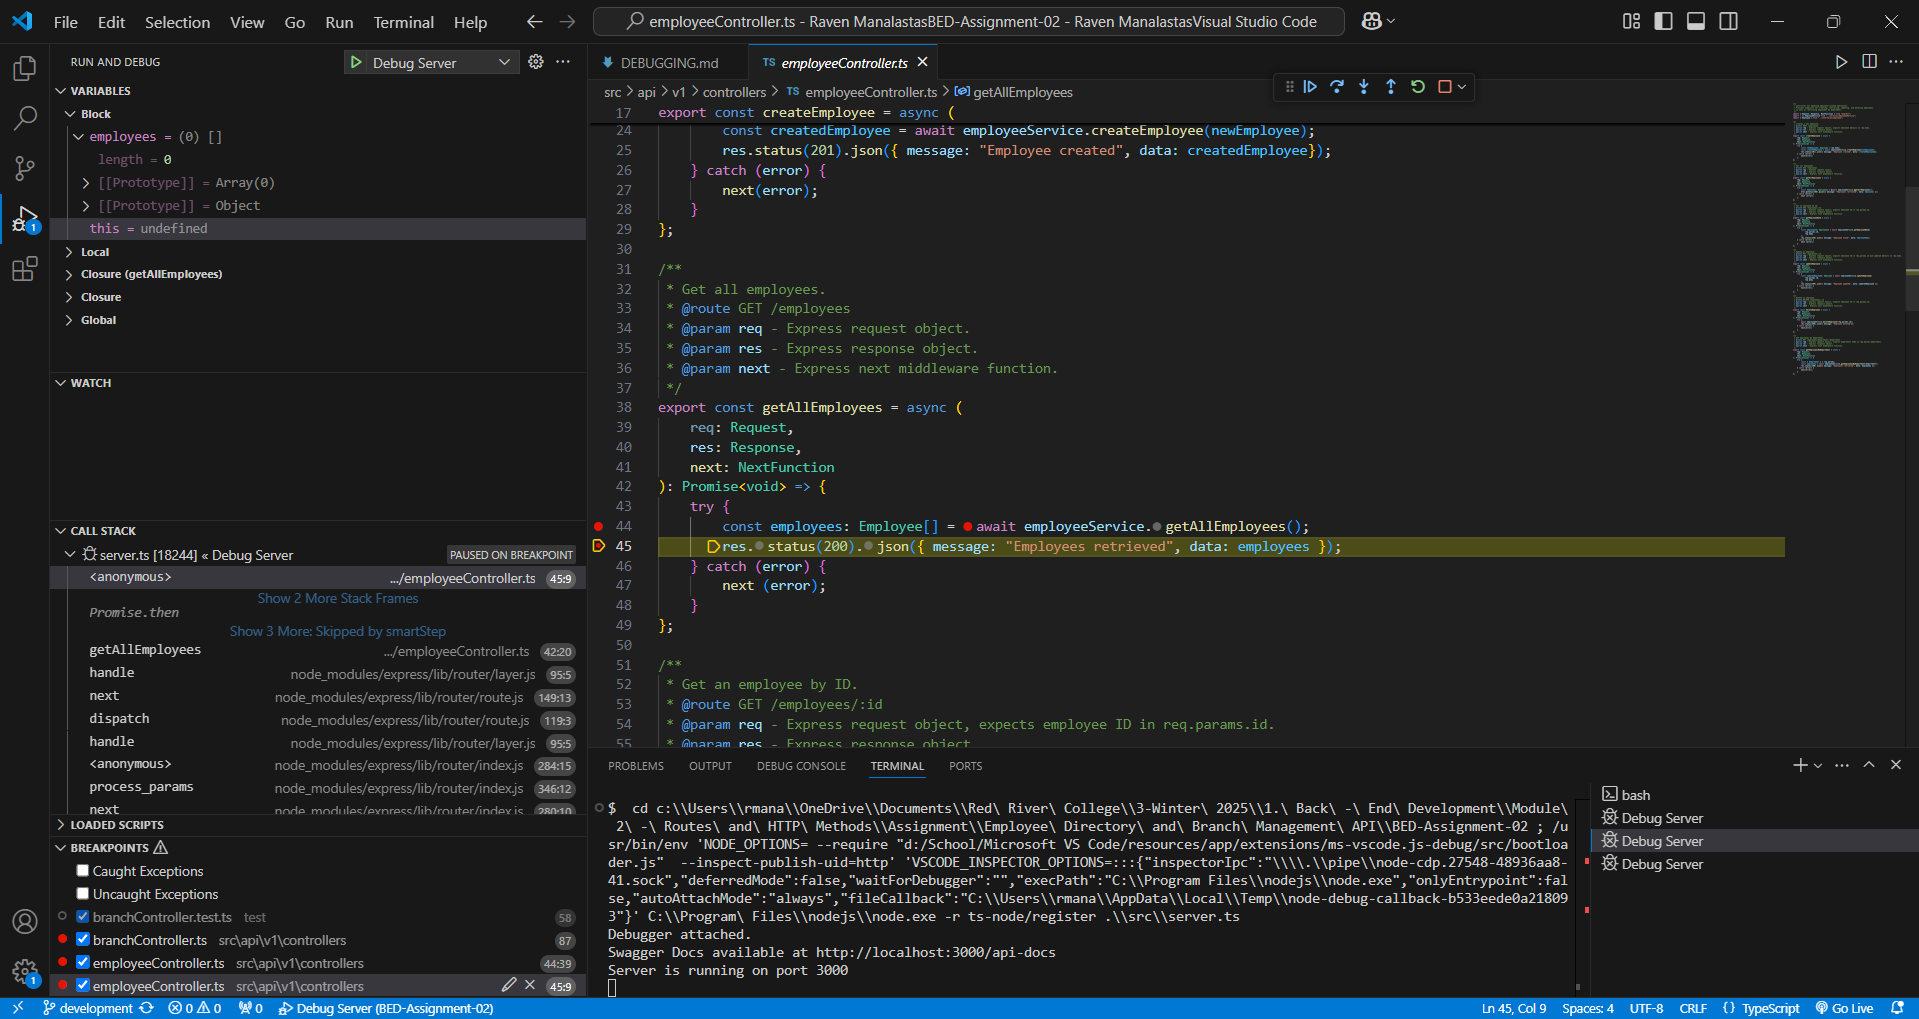
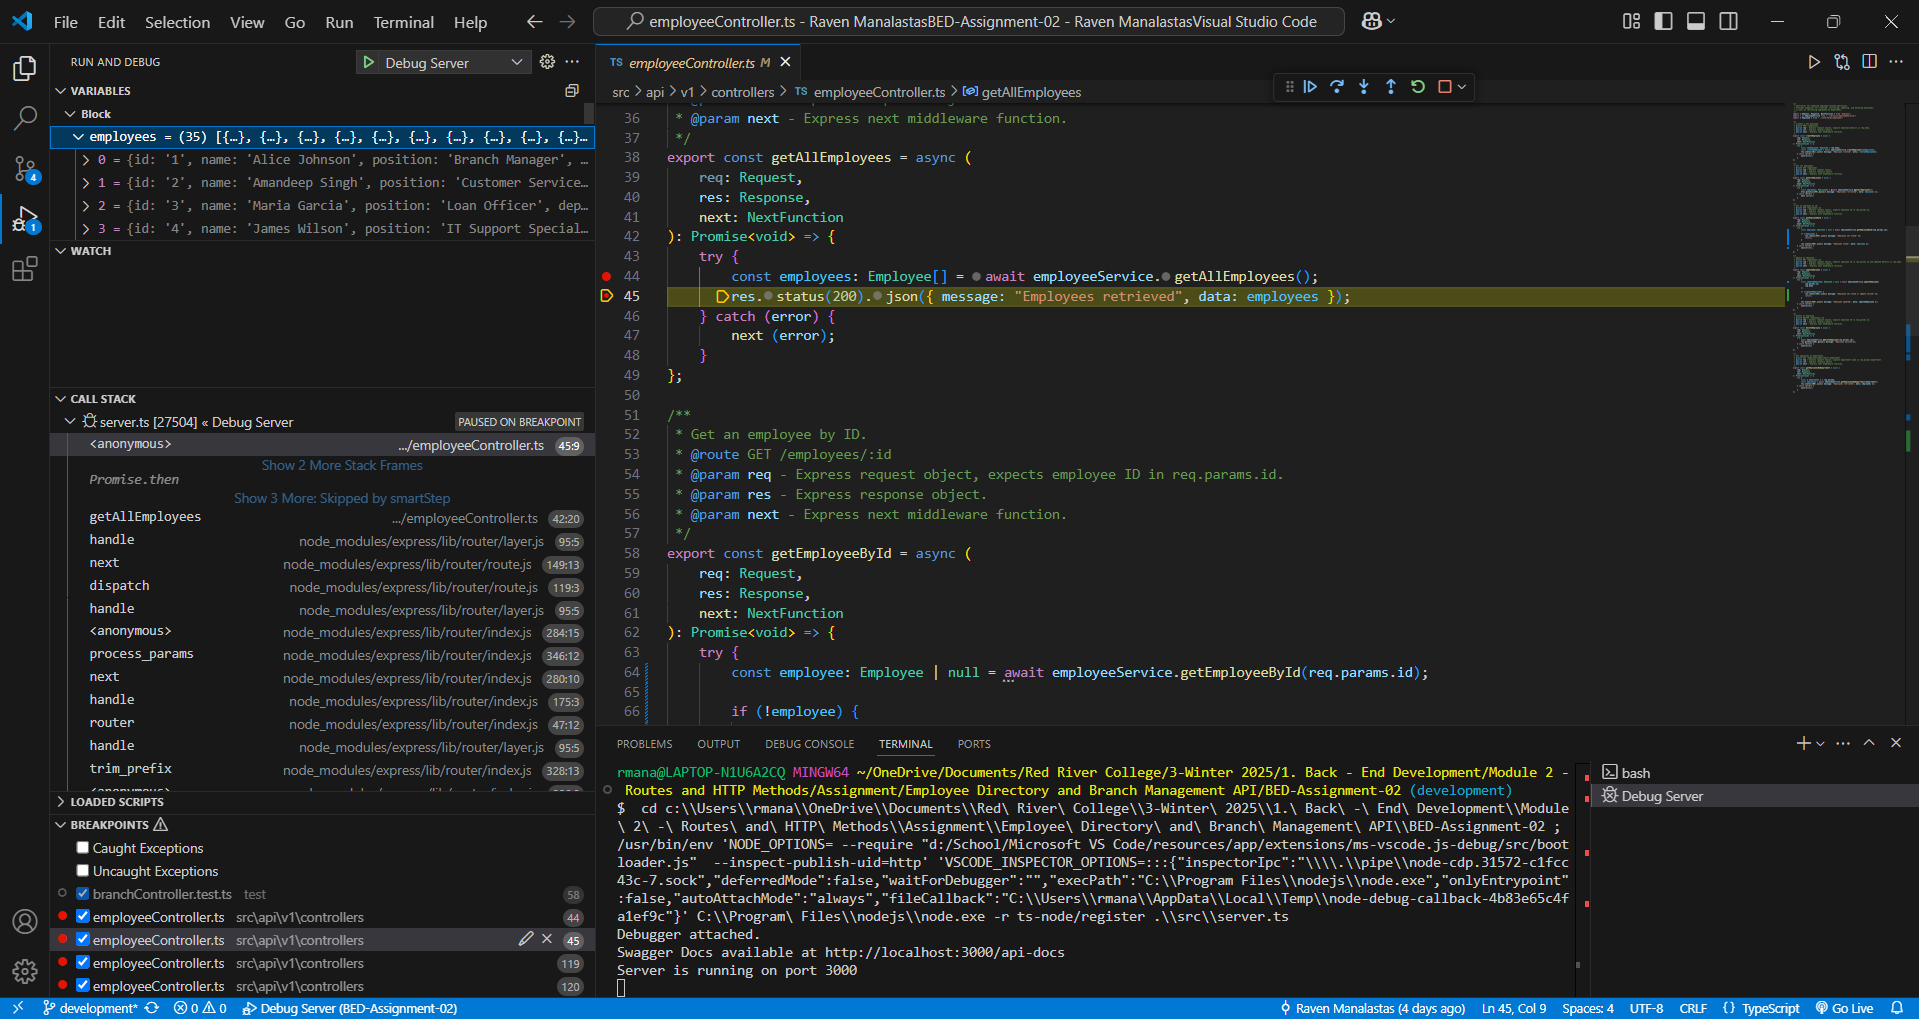
feat: updated bit of the employee and branch controller and service to get the sample data.

diff --git a/src/api/v1/services/employeeService.ts b/src/api/v1/services/employeeService.ts
@@ -8,8 +8,8 @@ import { sampleEmployees } from "../sample data/employeeData";
 import { Branch } from "../interfaces/branch";
 import { sampleBranches } from "../sample data/branchData";
 
-const branches: Branch[] = [];
-const employees: Employee[] = [];
+const branches: Branch[] = [...sampleBranches];
+const employees: Employee[] = [...sampleEmployees];
 
 /**
  * Retrieves all employees.
@@ -22,28 +22,19 @@ export const getAllEmployees = async (): Promise<Employee[]> => {
 /**
  * Retrieves an employee by their ID.
  * @param {string} id - The ID of the employee.
- * @param {any} body - Additional request data (if applicable).
- * @returns {Employee[]} An array containing the found employee or an empty array if not found.
+ * @returns {Employee | null} The found employee or null if not found.
  */
-export const getEmployeeById =  (id: string, body: any): Employee[] => {
-    const foundEmployee = employees.find(employee => employee.id === id);
-    return foundEmployee ? [foundEmployee] : [];
+export const getEmployeeById = (id: string): Employee | null => {
+    return employees.find(employee => employee.id === id) || null;
 };
 
 /**
  * Creates a new employee and adds them to the employees list.
- * @param {Object} employee - The employee details (name, position, department, email, phone, branchId).
+ * @param {Omit<Employee, 'id'>} employee - The employee details without an ID.
  * @returns {Promise<Employee>} The newly created employee.
  */
-export const createEmployee = async (employee: {
-    name: string;
-    position: string;
-    department: string;
-    email: string;
-    phone: string;
-    branchId: string;
-}): Promise<Employee> => {
-    const newEmployee: Employee =  { id: Date.now().toString(), ...employee};
+export const createEmployee = async (employee: Omit<Employee, 'id'>): Promise<Employee> => {
+    const newEmployee: Employee = { id: Date.now().toString(), ...employee };
     employees.push(newEmployee);
     return newEmployee;
 };
@@ -51,41 +42,29 @@ export const createEmployee = async (employee: {
 /**
  * Updates an employee by their ID.
  * @param {string} id - The ID of the employee.
- * @param {Object} updatedEmployee - The updated employee details (name, position, department, email, phone, branchId).
- * @returns {Promise<Employee>} The updated employee.
- * @throws {Error} If the employee with the given ID is not found.
+ * @param {Partial<Employee>} updatedEmployee - The updated employee details.
+ * @returns {Promise<Employee | null>} The updated employee or null if not found.
  */
 export const updateEmployee = async (
     id: string,
-    updatedEmployee: {
-        name: string; 
-        position: string; 
-        department: string;
-        email: string;
-        phone: string;
-        branchId: string;
-    }
-): Promise<Employee> => {
-    const index: number = employees.findIndex(employee => employee.id === id);
-    if (index === -1) {
-        throw new Error(`Employee with ID ${id} not found`);
-    }
-    employees[index] = { id, ...updatedEmployee };
-    return employees[index]; 
+    updatedEmployee: Partial<Employee>
+): Promise<Employee | null> => {
+    const index = employees.findIndex(employee => employee.id === id);
+    if (index === -1) return null;
+    employees[index] = { ...employees[index], ...updatedEmployee };
+    return employees[index];
 };
 
 /**
  * Deletes an employee by their ID.
  * @param {string} id - The ID of the employee.
- * @returns {Promise<void>} Resolves when the employee is deleted.
- * @throws {Error} If the employee with the given ID is not found.
+ * @returns {Promise<boolean>} True if deleted, false if not found.
  */
-export const deleteEmployee = async (id: string): Promise<void> => {
-    const index: number = employees.findIndex(employee => employee.id === id);
-    if (index === -1) {
-        throw new Error(`Employee with ID ${id} not found`);
-    }
+export const deleteEmployee = async (id: string): Promise<boolean> => {
+    const index = employees.findIndex(employee => employee.id === id);
+    if (index === -1) return false;
     employees.splice(index, 1);
+    return true;
 };
 
 /**

diff --git a/src/api/v1/services/branchService.ts b/src/api/v1/services/branchService.ts
@@ -8,20 +8,16 @@ import { sampleBranches } from "../sample data/branchData";
 import { Employee } from "../interfaces/employee";
 import { sampleEmployees } from "../sample data/employeeData";
 
-const branches: Branch[] = [];
-const employees: Employee[] = [];
+const branches: Branch[] = [...sampleBranches];
+const employees: Employee[] = [...sampleEmployees];
 
 /**
  * Creates a new branch and adds it to the branches list.
- * @param {Object} branch - The branch details (name, address, phone).
+ * @param {Partial<Branch>} branch - The branch details (name, address, phone).
  * @returns {Promise<Branch>} The newly created branch.
  */
-export const createBranch = async (branch: {
-    name: string;
-    address: string;
-    phone: string;
-}): Promise<Branch> => {
-    const newBranch: Branch = { id: Date.now().toString(), ...branch };
+export const createBranch = async (branch: Partial<Branch>): Promise<Branch> => {
+    const newBranch: Branch = { id: Date.now().toString(), ...branch } as Branch;
     branches.push(newBranch);
     return newBranch;
 };
@@ -37,45 +33,35 @@ export const getAllBranches = async (): Promise<Branch[]> => {
 /**
  * Retrieves a branch by its ID.
  * @param {string} id - The ID of the branch.
- * @param {any} body - Additional request data (if applicable).
- * @returns {Branch[]} An array containing the found branch or an empty array if not found.
+ * @returns {Promise<Branch | null>} The found branch or null if not found.
  */
-export const getBranchById = (id: string, body: any): Branch[] => {
-    const foundBranch = branches.find(branch => branch.id === id);
-    return foundBranch ? [foundBranch] : [];
+export const getBranchById = async (id: string): Promise<Branch | null> => {
+    return branches.find(branch => branch.id === id) || null;
 };
 
 /**
  * Updates a branch by its ID.
  * @param {string} id - The ID of the branch.
- * @param {Object} updatedBranch - The updated branch details (name, address, phone).
- * @returns {Promise<Branch>} The updated branch.
- * @throws {Error} If the branch with the given ID is not found.
+ * @param {Partial<Branch>} updatedBranch - The updated branch details.
+ * @returns {Promise<Branch | null>} The updated branch or null if not found.
  */
-export const updateBranch = async (
-    id: string,
-    updatedBranch: { name: string; address: string; phone: string }
-): Promise<Branch> => {
+export const updateBranch = async (id: string, updatedBranch: Partial<Branch>): Promise<Branch | null> => {
     const index: number = branches.findIndex(branch => branch.id === id);
-    if (index === -1) {
-        throw new Error(`Branch with ID ${id} not found`);
-    }
-    branches[index] = { id, ...updatedBranch };
+    if (index === -1) return null;
+    branches[index] = { ...branches[index], ...updatedBranch };
     return branches[index];
 };
 
 /**
  * Deletes a branch by its ID.
  * @param {string} id - The ID of the branch.
- * @returns {Promise<void>} Resolves when the branch is deleted.
- * @throws {Error} If the branch with the given ID is not found.
+ * @returns {Promise<boolean>} True if deletion was successful, false otherwise.
  */
-export const deleteBranch = async (id: string): Promise<void> => {
+export const deleteBranch = async (id: string): Promise<boolean> => {
     const index: number = branches.findIndex(branch => branch.id === id);
-    if (index === -1) {
-        throw new Error(`Branch with ID ${id} not found`);
-    }
+    if (index === -1) return false;
     branches.splice(index, 1);
+    return true;
 };
 
 /**

diff --git a/src/api/v1/controllers/branchController.ts b/src/api/v1/controllers/branchController.ts
@@ -61,13 +61,16 @@ export const getBranchById = async (
     next: NextFunction
 ): Promise<void> => {
     try {
-        const branchId: Branch[] = await branchService.getBranchById(
-            req.params.id,
-            req.body
-        );
-        res.status(200).json({ message: "Branch found", data: branchId });
+        const branch: Branch | null = await branchService.getBranchById(req.params.id);
+
+        if (!branch) {
+            res.status(404).json({ message: "Branch not found" });
+            return;
+        }
+
+        res.status(200).json({ message: "Branch found", data: branch });
     } catch (error) {
-        next (error);
+        next(error);
     }
 };
 
@@ -84,10 +87,16 @@ export const updateBranch = async (
     next: NextFunction
 ): Promise<void> => {
     try {
-        const updatedBranch: Branch = await branchService.updateBranch(
+        const updatedBranch: Branch | null = await branchService.updateBranch(
             req.params.id,
             req.body
         );
+
+        if (!updatedBranch) {
+            res.status(404).json({ message: "Branch not found or update failed" });
+            return;
+        }
+
         res.status(200).json({ message: "Branch updated", data: updatedBranch });
     } catch (error) {
         next(error);
@@ -110,7 +119,7 @@ export const deleteBranch = async (
         await branchService.deleteBranch(req.params.id);
         res.status(200).json({ message: "Branch deleted" });
     } catch (error) { 
-        next(error)
+        next(error);
     }
 };
 
@@ -129,9 +138,13 @@ export const getEmployeesByBranch = async (
     try {
         const branchId = req.params.branchId;
         const employees = await branchService.getEmployeesByBranch(branchId);
-        if (employees && employees.length > 0) {
-            res.status(200).json({ message: "Employees retrieved", data: employees });
-        } 
+        
+        if (!employees || employees.length === 0) {
+            res.status(404).json({ message: "No employees found for this branch" });
+            return;
+        }
+
+        res.status(200).json({ message: "Employees retrieved", data: employees });
     } catch (error) {
         next(error);
     }

diff --git a/src/api/v1/controllers/employeeController.ts b/src/api/v1/controllers/employeeController.ts
@@ -61,13 +61,16 @@ export const getEmployeeById = async (
     next: NextFunction
 ): Promise<void> => {
     try {
-        const employeeId: Employee[] = await employeeService.getEmployeeById(
-            req.params.id,
-            req.body
-        );
-        res.status(200).json({ message: "Employee found", data: employeeId});
+        const employee: Employee | null = await employeeService.getEmployeeById(req.params.id);
+
+        if (!employee) {
+            res.status(404).json({ message: "Employee not found" });
+            return;
+        }
+
+        res.status(200).json({ message: "Employee found", data: employee });
     } catch (error) {
-        next (error);
+        next(error);
     }
 };
 
@@ -84,10 +87,16 @@ export const updateEmployee = async (
     next: NextFunction
 ): Promise<void> => {
     try {
-        const updatedEmployee: Employee = await employeeService.updateEmployee(
+        const updatedEmployee: Employee | null = await employeeService.updateEmployee(
             req.params.id,
             req.body
         );
+
+        if (!updatedEmployee) {
+            res.status(404).json({ message: "Employee not found or update failed" });
+            return;
+        }
+
         res.status(200).json({ message: "Employee updated", data: updatedEmployee });
     } catch (error) {
         next(error);

diff --git a/debugging/DEBUGGING.md b/debugging/DEBUGGING.md
@@ -35,7 +35,7 @@
 
 ## Scenario 2: **Debugging Employee Deletion Process**
 
-- **Breakpoint Location:** `employeeController.ts`, line 110 (`deleteEmployee` function)
+- **Breakpoint Location:** `employeeController.ts`, line 120 (`deleteEmployee` function)
 - **Objective:** Debug the employee deletion flow to see how the `DELETE` request is handled, and observe the result when attempting to delete a non-existing employee.
 
 ### Debugger Observations
